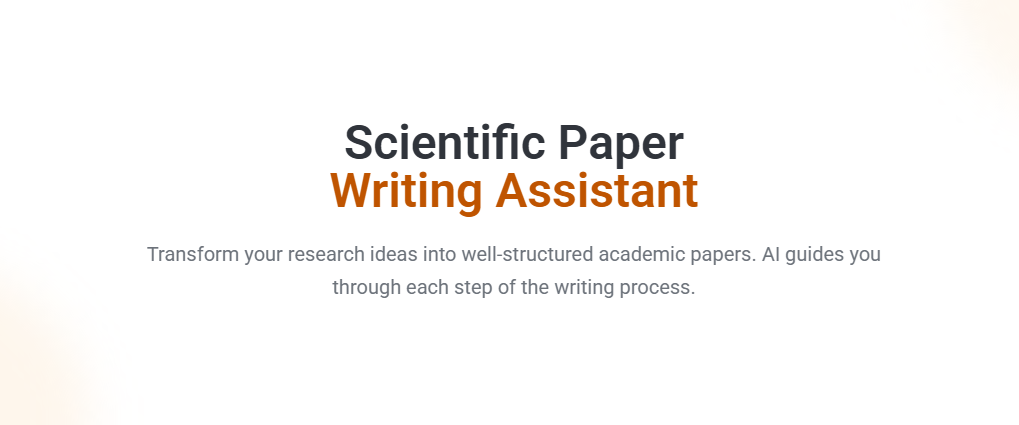
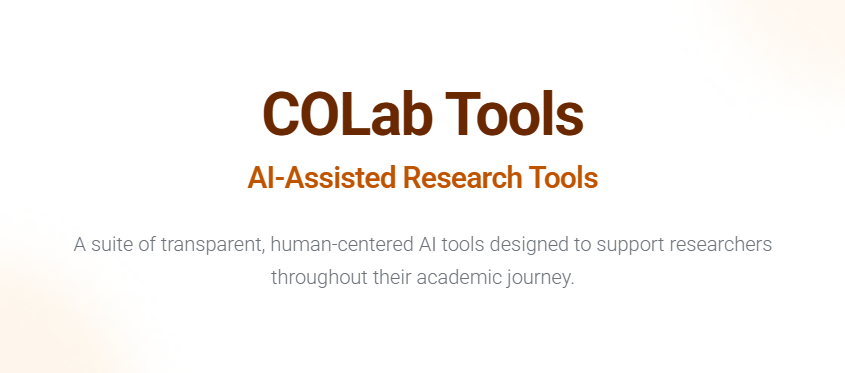
update meta info

Changed region(s): [[0.2769, 0.2359, 0.7077, 0.5308], [0.0923, 0.5898, 0.9231, 0.7668]]

diff --git a/frontend/src/app.html b/frontend/src/app.html
@@ -6,28 +6,28 @@
 		<meta name="viewport" content="width=device-width, initial-scale=1" />
 
 		<!-- Primary Meta Tags -->
-		<title>Paper Writing Assistant - AI-Powered Academic Writing Tool</title>
-		<meta name="title" content="Paper Writing Assistant - AI-Powered Academic Writing Tool" />
-		<meta name="description" content="Transform your research into well-structured academic papers with our AI-powered writing assistant. Designed for transparency, human oversight, and scientific integrity." />
-		<meta name="keywords" content="academic writing, research paper, AI writing assistant, scientific writing, paper drafting, literature review, citation management" />
-		<meta name="author" content="PNU Colab" />
+		<title>COLab Tools - AI-Assisted Research Tools</title>
+		<meta name="title" content="COLab Tools - AI-Assisted Research Tools" />
+		<meta name="description" content="A suite of transparent, human-centered AI tools designed to support researchers throughout their academic journey. Features scientific paper writing assistant and more." />
+		<meta name="keywords" content="academic writing, research paper, AI writing assistant, scientific writing, paper drafting, literature review, citation management, COLab Tools" />
+		<meta name="author" content="Computational Omics Laboratory at Pusan National University" />
 
 		<!-- Open Graph / Facebook -->
 		<meta property="og:type" content="website" />
 		<meta property="og:url" content="https://research.pnucolab.com/" />
-		<meta property="og:title" content="Paper Writing Assistant - AI-Powered Academic Writing Tool" />
-		<meta property="og:description" content="Transform your research into well-structured academic papers with our AI-powered writing assistant. Designed for transparency, human oversight, and scientific integrity." />
+		<meta property="og:title" content="COLab Tools - AI-Assisted Research Tools" />
+		<meta property="og:description" content="A suite of transparent, human-centered AI tools designed to support researchers throughout their academic journey. Features scientific paper writing assistant and more." />
 		<meta property="og:image" content="https://research.pnucolab.com/og-image.png" />
 		<meta property="og:image:width" content="1200" />
 		<meta property="og:image:height" content="630" />
-		<meta property="og:site_name" content="Paper Writing Assistant" />
+		<meta property="og:site_name" content="COLab Tools" />
 		<meta property="og:locale" content="en_US" />
 
 		<!-- Twitter -->
 		<meta property="twitter:card" content="summary_large_image" />
 		<meta property="twitter:url" content="https://research.pnucolab.com/" />
-		<meta property="twitter:title" content="Paper Writing Assistant - AI-Powered Academic Writing Tool" />
-		<meta property="twitter:description" content="Transform your research into well-structured academic papers with our AI-powered writing assistant. Designed for transparency, human oversight, and scientific integrity." />
+		<meta property="twitter:title" content="COLab Tools - AI-Assisted Research Tools" />
+		<meta property="twitter:description" content="A suite of transparent, human-centered AI tools designed to support researchers throughout their academic journey. Features scientific paper writing assistant and more." />
 		<meta property="twitter:image" content="https://research.pnucolab.com/og-image.png" />
 
 		<!-- Additional Meta Tags -->
